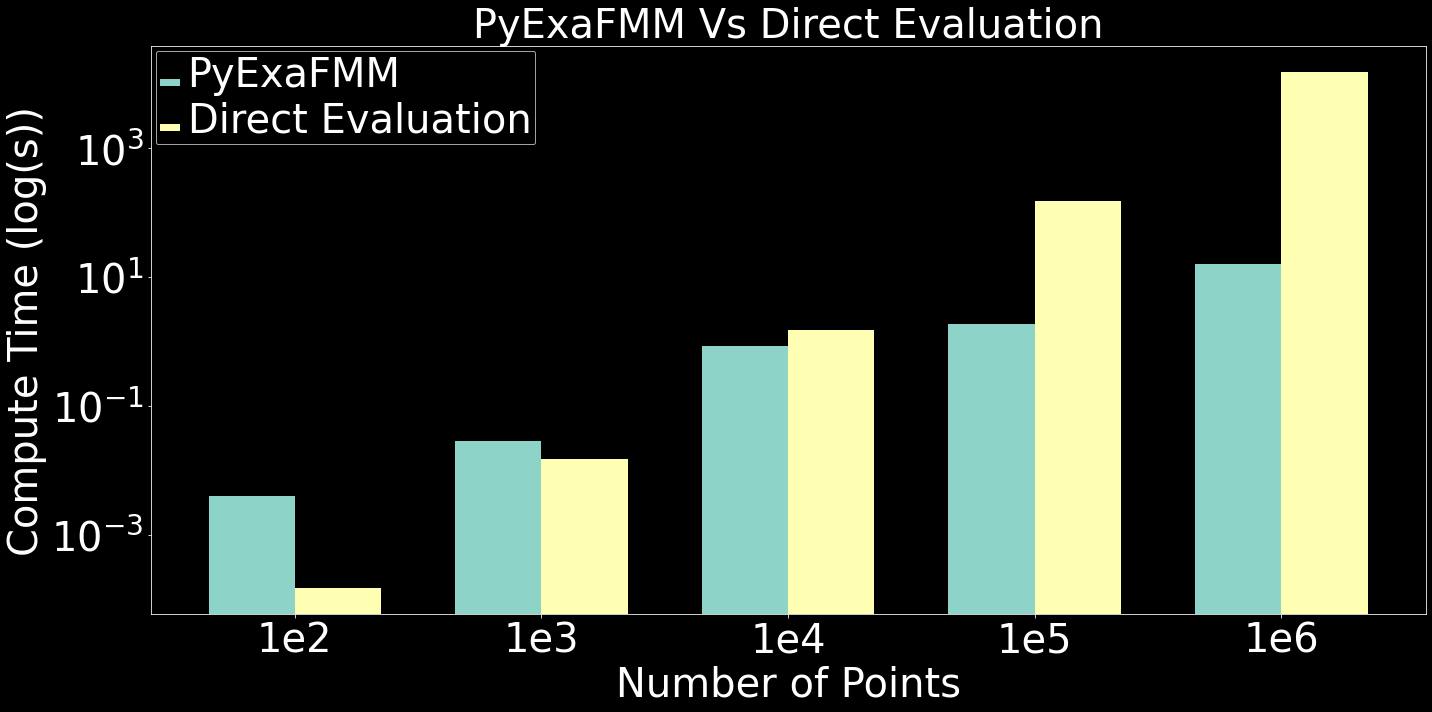
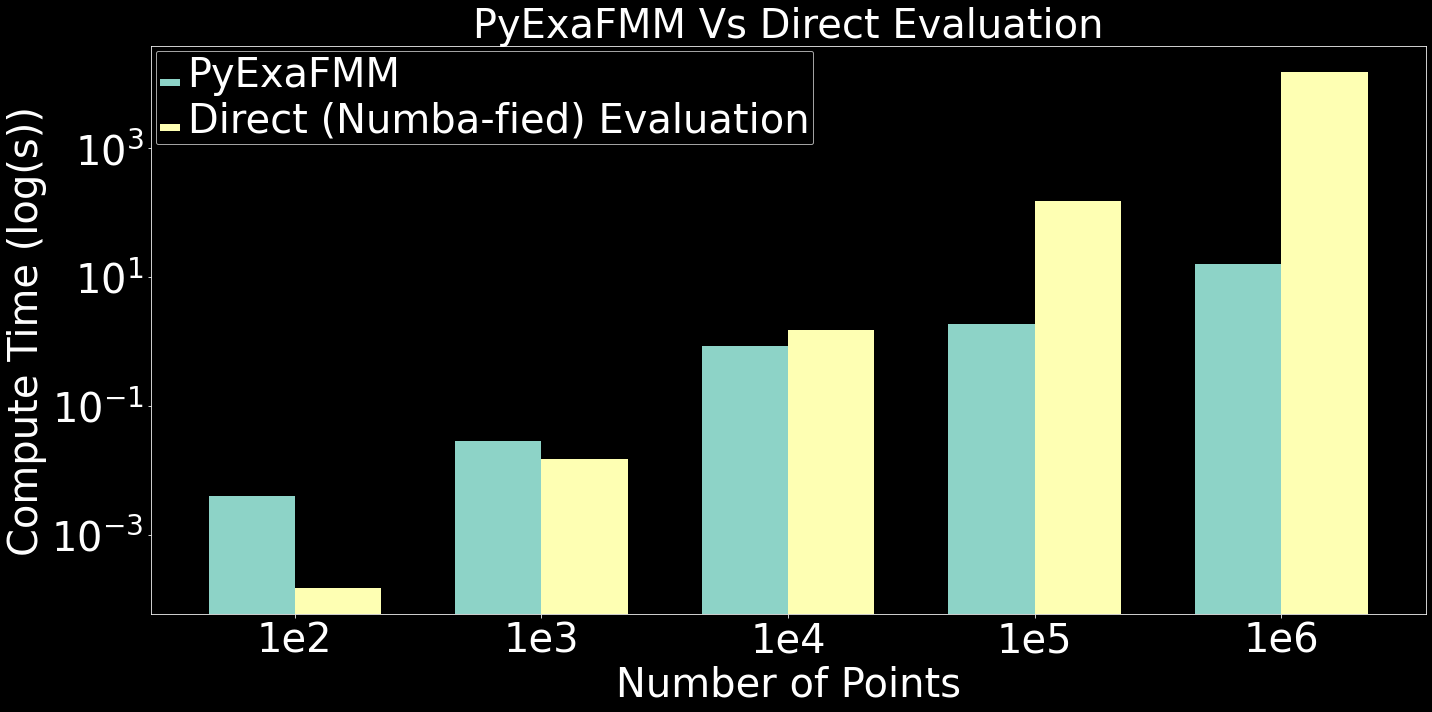
Bump version

Changed region(s): [[0.2151, 0.1236, 0.5838, 0.1854]]

diff --git a/fmm/__version__.py b/fmm/__version__.py
@@ -3,5 +3,5 @@ PyExaFMM
 """
 
 __title__ = 'fmm'
-__version__ = '3.0.0'
+__version__ = '3.0.1'
 __description__ = 'An adaptive, kernel-independent, particle FMM implementation Python'

diff --git a/README.md b/README.md
@@ -10,14 +10,14 @@ The goal of PyExaFMM is to develop a highly performant implementation of the ada
 
 ## Performance
 
-PyExaFMM compares favourably on realsitic problem sizes with naive (direct) evaluation. The figure below provides a benchmark for the Laplace kernel evaluated on uniformly distributed points.
+PyExaFMM compares favourably on realsitic problem sizes with naive direct evaluation with a numba-fied kernel. The figure below provides a benchmark for the Laplace kernel evaluated on uniformly distributed points.
 
 <img src="static/performance.png" alt="Laplace" width="800">
 
 
 ## System Requirements
 
-An NVidia GPU is required, as PyExaFMM is accellerated with CUDA.
+An NVidia GPU is required, as PyExaFsMM is accellerated with CUDA.
 
 ## Install
 
